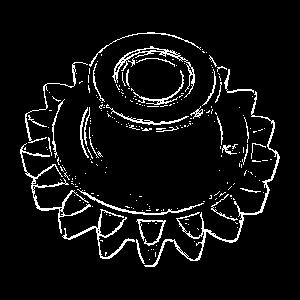
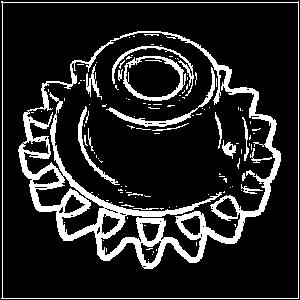
fixed

diff --git a/edge.py b/edge.py
@@ -7,79 +7,102 @@ class Edge:
         self.px = px
         self.w = w
         self.h = h
-        self.name = name
-        self.base_name = name.split('/')[-1:][0]
-        self.threshold = 110
-        self.ws = ws
+        self.ws = 3
+        self.name = name.split('/')[-1:][0]
+        self.threshold = 0.05
 
-        self.set_direcs()
+        self.set_kernel()
         self.get_edges()
 
-    '''
     def set_kernel(self):
-        self.kernel_x = np.array([[1, 0, -1], [2, 0, -1], [1, 0, -1]])
+        self.kernel_x = np.array([[1, 0, -1], [2, 0, -2], [1, 0, -1]])
         self.kernel_y = np.array([[1, 2, 1], [0, 0, 0], [-1, -2, -1]])
 
     def convolve(self, win):
-        prod_x = np.zeros((self.ws, self.ws), dtype=np.uintc)
-        prod_y = np.zeros((self.ws, self.ws), dtype=np.uintc)
+        G_x = 0
+        G_y = 0
 
         for i in range(self.ws):
             for j in range(self.ws):
-                prod_x = self.kernel_x[i][j] * win[i][j]
-                prod_y = self.kernel_y[i][j] * win[i][j]
+                G_x += self.kernel_x[i][j] * win[i][j]
+                G_y += self.kernel_y[i][j] * win[i][j]
 
-        prod_x = np.sum(prod_x) / (self.ws**2)
-        prod_y = np.sum(prod_y) / (self.ws**2)
+        theta = math.atan(G_y / (G_x + 0.00001))
 
-        return math.sqrt(prod_x**2 + prod_y**2)
-    '''
+        return [math.sqrt(G_x**2 + G_y**2) / 1081.9, theta]
 
-    def set_direcs(self):
-        B = math.floor(self.ws / 2)
-        self.direcs = np.zeros((self.ws, self.ws, 2))
-
-        for i in range(B, -B-1, -1):
-            for j in range(-B, B+1):
-                self.direcs[B-i][j+B] = [j, i]
-
-    def get_gradient(self, win):
-        B = math.floor(self.ws / 2)
-        P = win[B][B]
-
-        vecs = np.zeros((self.ws, self.ws, 2), dtype=np.single)
-
-        for i in range(self.ws):
-            for j in range(self.ws):
-                mag = abs(float(win[i][j]) - float(P))
-                vecs[i][j] = [mag*self.direcs[i][j][0], mag*self.direcs[i][j][1]]
-
-        x = [vecs[i][j][0] for i in range(self.ws) for j in range(self.ws)]
-        y = [vecs[i][j][1] for i in range(self.ws) for j in range(self.ws)]
-
-        x = sum(x)
-        y = sum(y)
-
-        return math.sqrt(x**2 + y**2)
-
-    def get_edges(self):
-        B = math.floor(self.ws / 2)
-                
+    def get_edges(self):       
         im = Image.new('RGB', (self.w, self.h), 0)
         p = im.load()
+        window = np.zeros((self.ws, self.ws), dtype=np.single)
 
-        window = np.zeros((self.ws, self.ws), dtype=np.uintc)
-        for i in range(B, self.w-B):
-            for j in range(B, self.h-B):
-                for k in range(-B, B+1):
-                    for m in range(-B, B+1):
+        for i in range(1, self.w-1):
+            for j in range(1, self.h-1):
+                for k in range(-1, 2):
+                    for m in range(-1, 2):
                         window[k][m] = list(self.px[i+m, j+k])[0]
-                G = self.get_gradient(window)
-                if (G > self.threshold):
-                    p[i, j] = (255,255,255)
+                G = self.convolve(window)
+                if (G[0] > self.threshold):
+                    p[i, j] = self.get_color(G[1])
                 window[:] = 0 
 
-        im.save('Edge/'+self.base_name)
+        im.save('Edge/'+self.name)
+
+    def mult(self, x,y,z):
+        arr = [[math.sqrt(3)/2, 0, 1/2], [-math.sqrt(2)/4, math.sqrt(2)/2, math.sqrt(6)/4], [-math.sqrt(2)/4, -math.sqrt(2)/2, math.sqrt(6)/4]]
+
+        vec = [x, y, z]
+        newv = [0, 0, 0]
+
+        for i in range(3):
+            for j in range(3):
+                newv[i] += int(vec[j] * arr[i][j])   
+
+        return newv
+
+
+    def get_color(self, t):
+        arr = [0,0,0]
+        k = (math.pi)/3
+        a = math.sqrt(3)
+        theta = (math.pi/2)-np.arccos(a/3)
+        r = (127.5)*math.sqrt(3)
+        c = r*a
+        if (0<= t < k):
+            x = c/(math.tan(t)+a)
+            y = math.tan(t)*x
+            z = (-(1/r)*2*x+2)*255*(math.sqrt(2)*math.sin(theta)-1/2)+127.5
+            arr = self.mult(x,y,z)
+        if (k<= t < 2*k):
+            x = c/(2*math.tan(t))
+            y = math.tan(t)*x
+            z = -(1/r)*(x-r/2)*255*(1/2-math.sqrt(2)*math.sin(theta))+255*math.sqrt(2)*math.sin(theta)
+            arr = self.mult(x,y,z)
+        if (2*k<= t < 3*k):
+            x = c/(math.tan(t)-a)
+            y = math.tan(t)*x
+            z = -(1/r)*(2*x+r)*255*(math.sqrt(2)*math.sin(theta)-1/2)+127.5
+            arr = self.mult(x,y,z)
+        if (3*k<= t < 4*k):
+            x = -c/(math.tan(t)+a)
+            y = math.tan(t)*x
+            z = (1/r)*(2*x+2*r)*255*(1/2-math.sqrt(2)*math.sin(theta))+255*math.sqrt(2)*math.sin(theta)
+            arr = self.mult(x,y,z)
+        if (4*k<= t < 5*k):
+            x = -c/(2*math.tan(t))
+            y = math.tan(t)*x
+            z = (1/r)*(x+r/2)*255*(math.sqrt(2)*math.sin(theta)-1/2)+127.5
+            arr = self.mult(x,y,z)
+        if (5*k <= t < 6*k):
+            x = -c/(math.tan(t)-a)
+            y = math.tan(t)*x
+            z = (1/r)*(2*x-r)*255*(1/2-math.sqrt(2)*math.sin(theta))+255*math.sqrt(2)*math.sin(theta)
+            arr = self.mult(x,y,z)
+
+        for d in range(3):
+            arr[d] = int(arr[d]*(mp)+arr[d]*(1-mp)/4)
+            
+        return tuple(arr)
 
     
 

diff --git a/enhance.py b/enhance.py
@@ -2,46 +2,36 @@ import math
 import numpy as np
 from PIL import Image
 
-class Blur:
-    def __init__(self, px, w, h, name, ws=3):
+class Enhance:
+    def __init__(self, px, w, h, name):
         self.px = px
         self.w = w
         self.h = h
-        self.ws = ws # Window size
+        self.ws = 3
         self.name = name.split('/')[-1:][0]
 
         self.set_kernel()
-        self.blur()
+        self.enhance()
 
     def set_kernel(self):
-        B = math.floor(self.ws / 2)
-        vals = [2*(a**2) for a in range(B+1)]
-        var = sum(vals) / self.ws
-        norm_const = 1 / (2*math.pi*var)
-
-        self.kernel = np.zeros((self.ws, self.ws), dtype=np.single)
-        
-        for i in range(B, -B-1, -1):
-            for j in range(-B, B+1):
-                self.kernel[B-i][j+B] = norm_const * math.exp(-((j**2)/(2*var)) - ((i**2)/(2*var)))
+        self.kernel = np.array([[-1/8,-1/8,-1/8],[-1/8,1,-1/8],[-1/8,-1/8,-1/8]])
 
     def convolve(self, win):
         C = 0
-        
+
         for i in range(self.ws):
             for j in range(self.ws):
                 C += self.kernel[i][j] * win[i][j]
-
-        c = int(C / np.sum(self.kernel))
         
+        c = int(C)
         return (c, c, c)
 
-    def blur(self):
+    def enhance(self):
         B = math.floor(self.ws / 2)
         im = Image.new('RGB', (self.w, self.h), 0)
         p = im.load()
-
         window = np.zeros((self.ws, self.ws), dtype=np.single)
+
         for i in range(B, self.w-B):
             for j in range(B, self.h-B):
                 for k in range(-B, B+1):
@@ -50,5 +40,4 @@ class Blur:
                 p[i, j] = self.convolve(window)
                 window[:] = 0 
 
-        im.save('Blur/'+self.name)
-    
+        im.save('Enhance/'+self.name)

diff --git a/im_proc.py b/im_proc.py
@@ -1,5 +1,6 @@
-import blur
 import grey
+import enhance
+import blur
 import edge
 from PIL import Image
 
@@ -22,13 +23,26 @@ class Convolve:
     def Grey(self):
         print('Greyscaling .....')
         grey.Grey(self.px, self.W, self.H, self.base_name)
+        self.im = Image.open('Grey/'+self.base_name)
+        self.px = self.im.load()
 
-    def Blur(self, ws=3, v=0):
-        self.Grey()
+    def Enhance(self):
+        print('Enhancing .......')
+        enhance.Enhance(self.px, self.W, self.H, self.base_name)
+        self.im = Image.open('Enhance/'+self.base_name)
+        self.px = self.im.load()
+
+    def Blur(self, ws=3):
         print('Blurring ........')
-        blur.Blur(self.px, self.W, self.H, ws, 'Grey/'+self.base_name, v)
+        blur.Blur(self.px, self.W, self.H, self.base_name, ws)
+        self.im = Image.open('Blur/'+self.base_name)
+        self.px = self.im.load()
 
     def Edge(self, ws=3):
-        self.Blur(5)
+        self.Grey()
+        self.Blur(ws)
         print('Finding edges ...')
-        edge.Edge(self.px, self.W, self.H, 'Blur/'+self.base_name, ws)
+        edge.Edge(self.px, self.W, self.H, self.base_name)
+        self.im = Image.open('Edge/'+self.base_name)
+        self.px = self.im.load()
+        self.Enhance()

diff --git a/grey.py b/grey.py
@@ -20,6 +20,7 @@ class Grey:
     def grey(self):
         im = Image.new('RGB', (self.w, self.h), 0)
         px = im.load()
+        
         for i in range(self.h):
             for j in range(self.w):
                 px[j, i] = self.convert(list(self.px[j, i]))

diff --git a/main.py b/main.py
@@ -2,8 +2,8 @@ import im_proc
 from PIL import Image
 
 def main():
-    I = im_proc.Convolve('Images/buildd.jpg')
-    I.Edge()
+    I = im_proc.Convolve('Images/gear.jpg')
+    I.Edge(5)
 
 if __name__ == '__main__':
     main()
